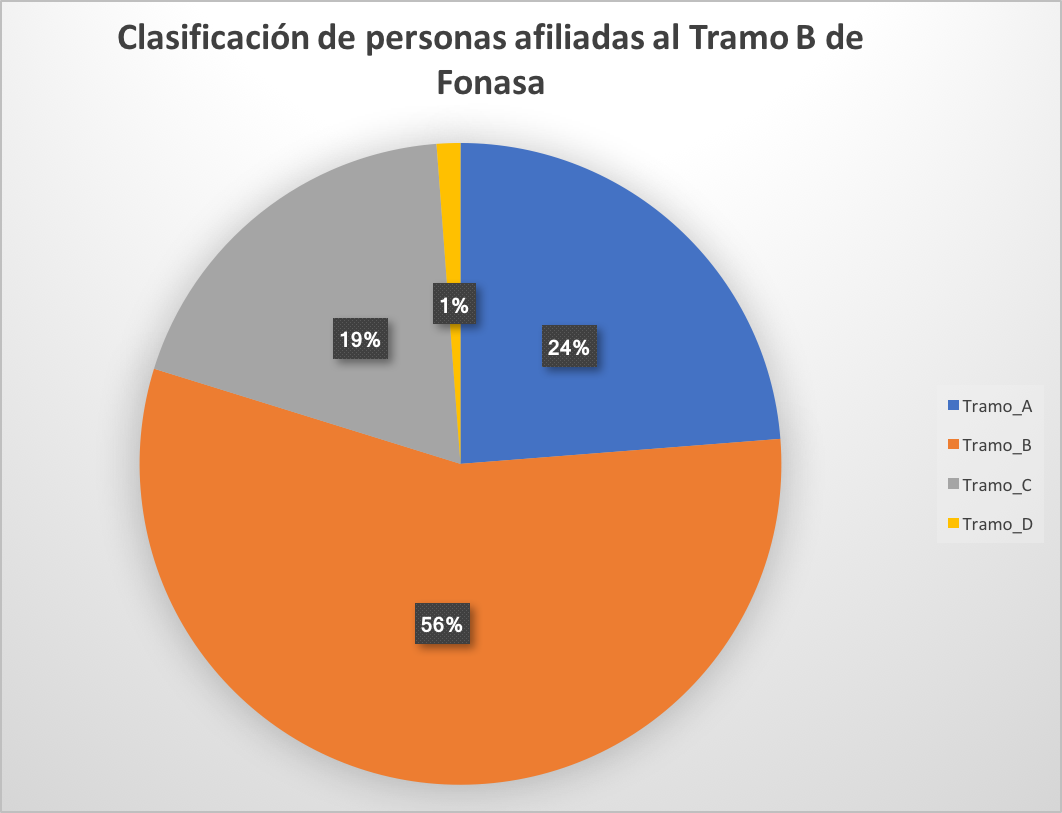
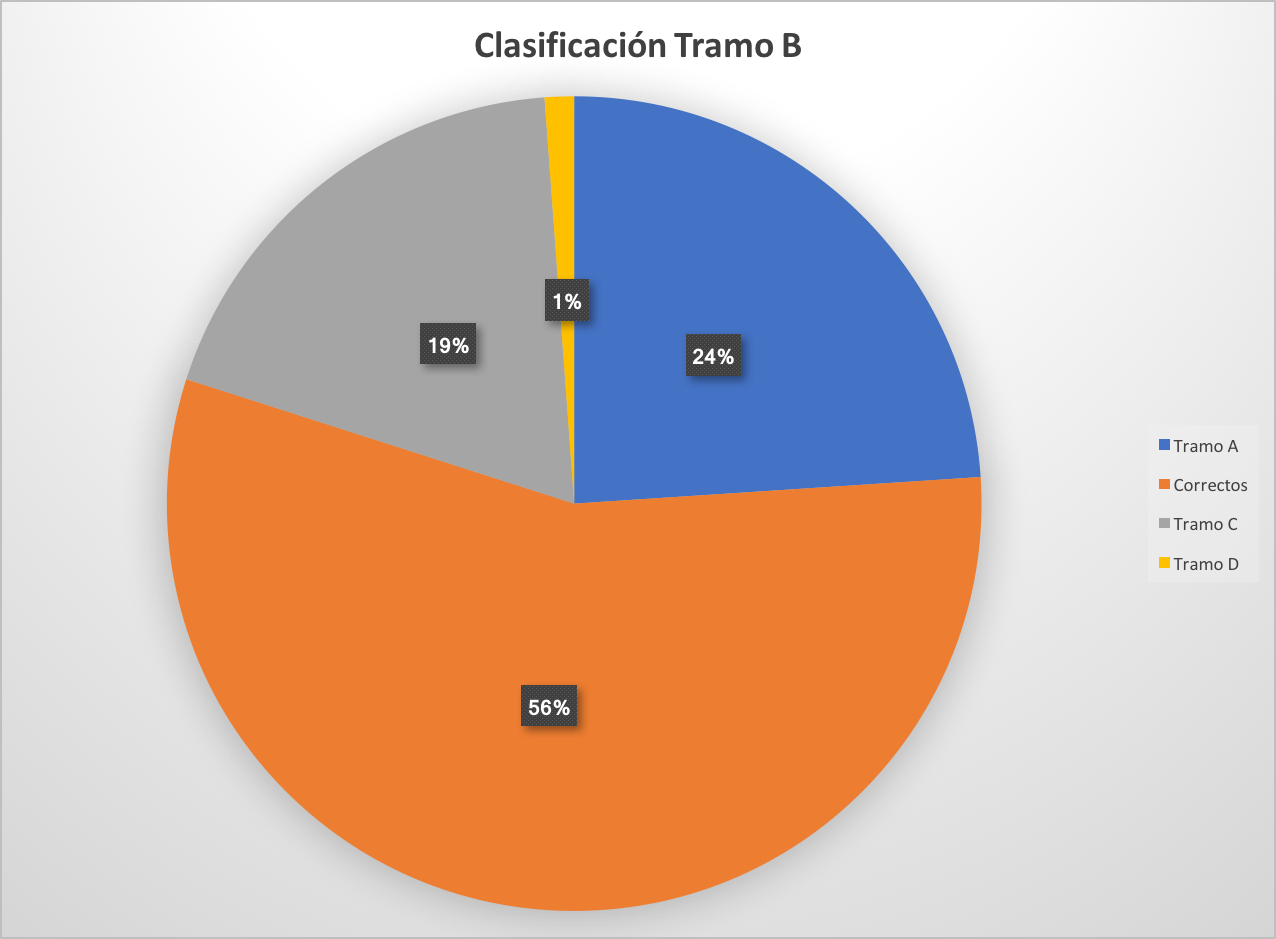
Mejora graficos con modelo 2.0

diff --git a/readme.md b/readme.md
@@ -73,6 +73,8 @@ A partir de modelo efectuado con RandomForest en Python, logrando una exactitud 
 *Probabilidad de dado que pertenece a Fonasa sea del fondo D*
 ![Prob(D/esDeFonasa)](https://github.com/JoaquinVillagra/Desafio_hackaton/tree/master/Imagenes/TramoD.png)
 
+A través de la implementación disponible en el archivo 2_f.py, se logra una exactitud de aproximadamente un 48% usando RandomForest para la clasificación de los tramos A,B,C,D del sistema FONASA. 
+
 ### Problema 3.
 Se fundamento propuesta de solución
 
